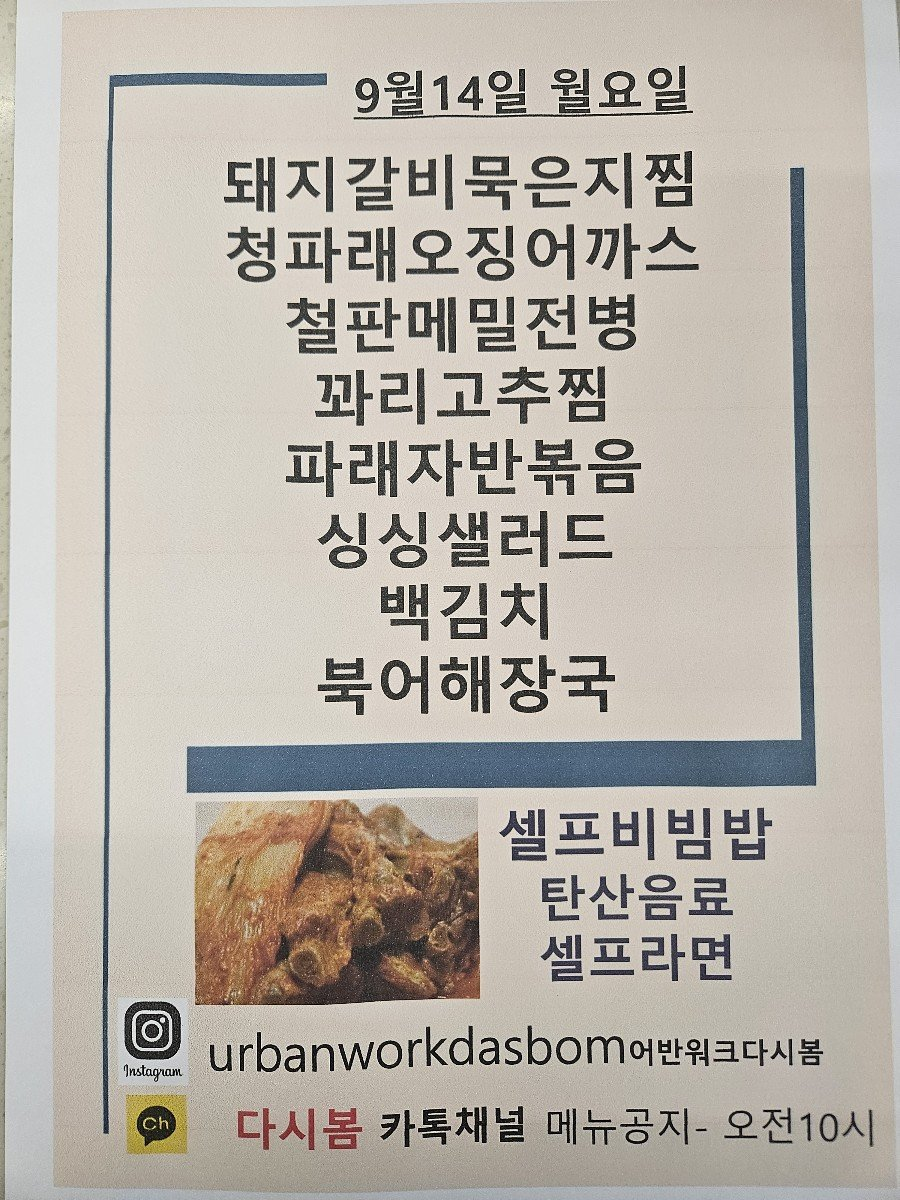
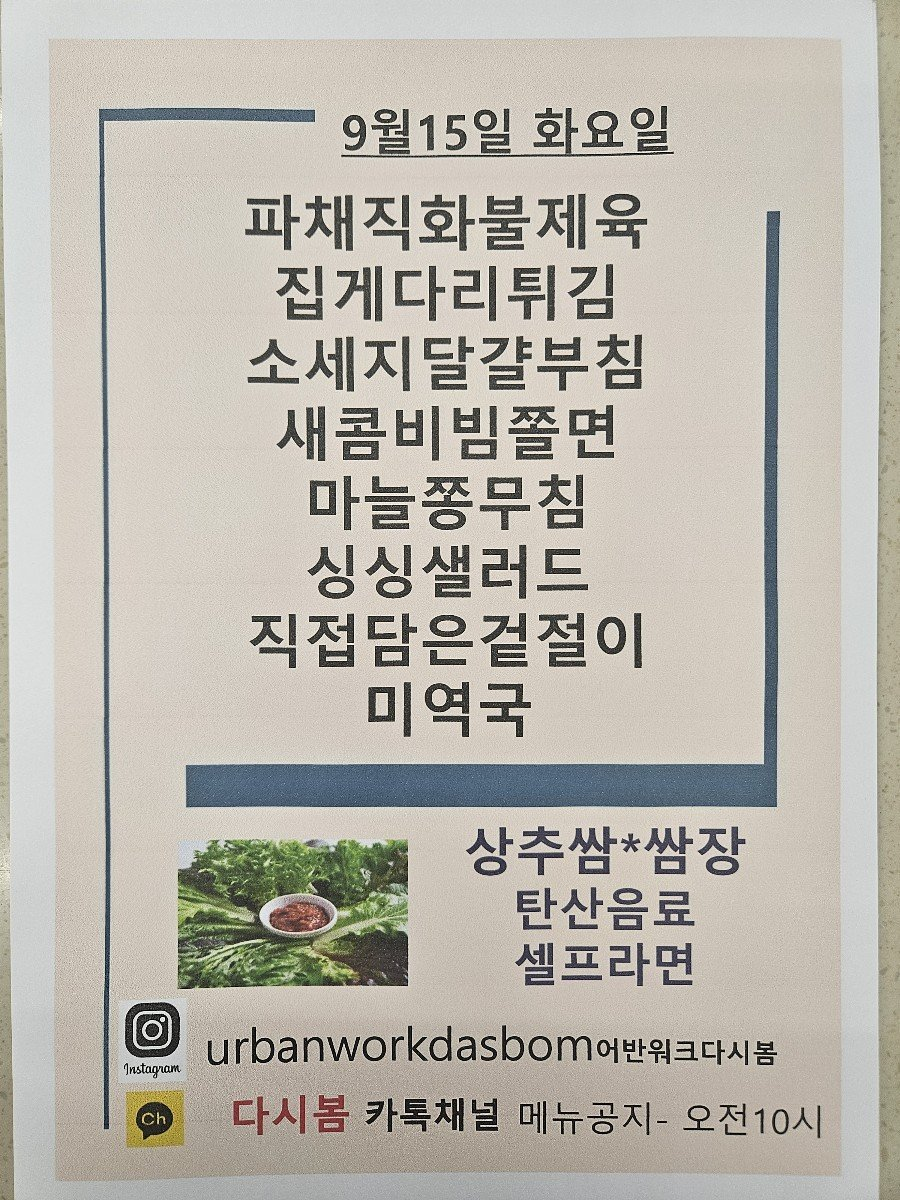
Update menu board assets

diff --git a/menu-today/index.html b/menu-today/index.html
@@ -209,7 +209,7 @@
 
     <section class="meta-bar">
       <div class="meta-card"><div class="meta-label">기준 날짜</div><div class="meta-value">2026년 9월 15일 화요일</div></div>
-      <div class="meta-card"><div class="meta-label">최종 가져온 시간</div><div class="meta-value">2026-09-15 09:18:03</div></div>
+      <div class="meta-card"><div class="meta-label">최종 가져온 시간</div><div class="meta-value">2026-09-15 09:33:03</div></div>
       <div class="meta-card"><div class="meta-label">확인 완료</div><div class="meta-value">9개 식당</div></div>
       <div class="meta-card"><div class="meta-label">준비중</div><div class="meta-value">3개 채널</div></div>
     </section>
@@ -235,7 +235,7 @@
             <div class="sub">가산 어반워크</div>
           </div>
         </div>
-        <div class="menu-inline-image"><img src="./images/dasibom.png" alt="다시 봄 식단 이미지"></div><ul><li>돼지갈비묵은지찜</li><li>청파래오징어까스</li><li>철판메밀전병</li><li>파래자반볶음</li><li>싱싱샐러드</li><li>백김치</li><li>북어해장국</li><li>파래자</li><li>바보으</li><li>탄산음</li></ul>
+        <div class="menu-inline-image"><img src="./images/dasibom.png" alt="다시 봄 식단 이미지"></div><ul><li>파채직화불제육 [</li><li>집게다리튀김 [</li><li>소세지달갈부침 E</li><li>싱싱샐러드</li><li>직접담은겉절이 !</li><li>파채직화불제육</li><li>집게다리튀김</li><li>소세지달갈부짐</li><li>새콤비빔쓸면</li><li>직접담은겉절이</li></ul>
       </article>
 
       <article class="restaurant-card">

diff --git a/guro-menu/index.html b/guro-menu/index.html
@@ -32,7 +32,7 @@
   </header>
   <section class="meta">
     <div><small>기준 날짜</small><strong>2026년 9월 15일 화요일</strong></div>
-    <div><small>최종 갱신</small><strong>2026-09-15 09:18:15</strong></div>
+    <div><small>최종 갱신</small><strong>2026-09-15 09:33:19</strong></div>
     <div><small>등록 식당</small><strong>5개</strong></div>
   </section>
   <div class="notice">공개 카카오 채널의 메뉴 이미지를 자동 수집하고 OCR로 정리합니다. 텍스트에 오타가 있을 수 있으니 식단 이미지를 함께 확인해 주세요.</div>
